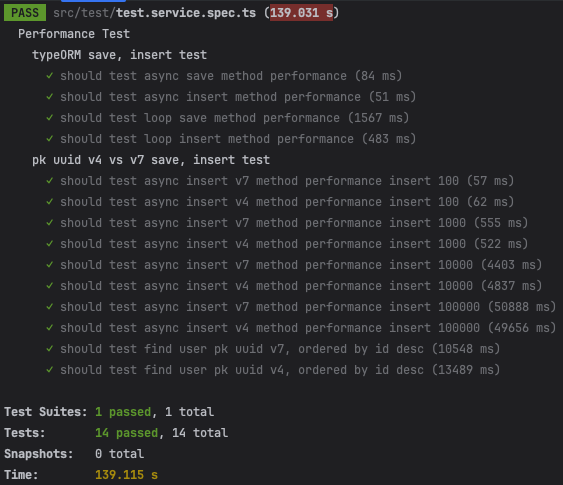
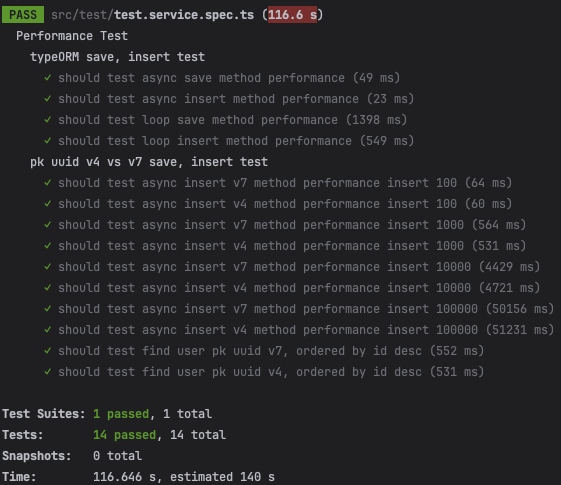
fix:readme 수정

Changed region(s): [[0.0, 0.0, 1.0, 0.7732], [0.0, 0.8351, 0.4848, 1.0]]

diff --git a/README.md b/README.md
@@ -29,7 +29,7 @@
 - PostgreSQL pk uuid v4 vs v7 비교
 
 ## Test 결과
-![img_1.png](img_1.png)
+![img.png](img.png)
 
 
 ## 참고자료
